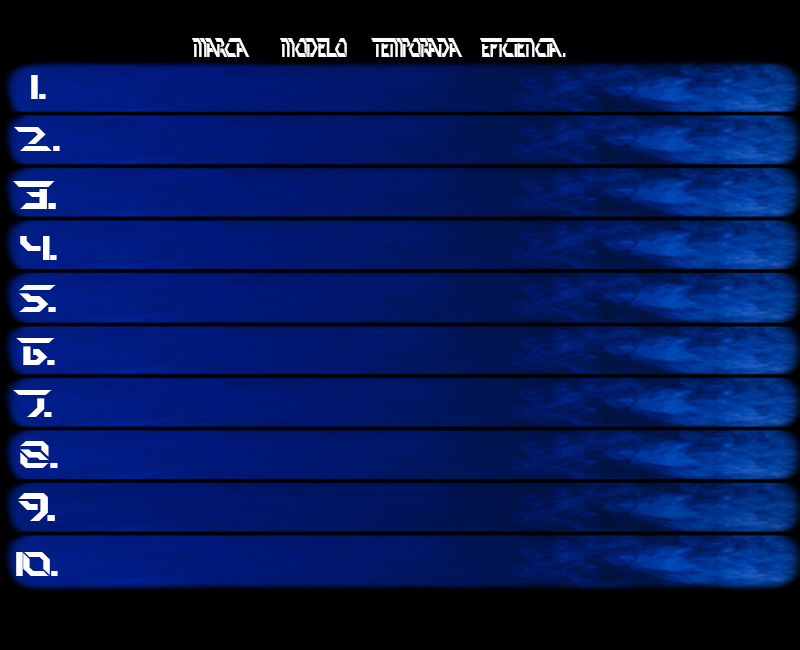
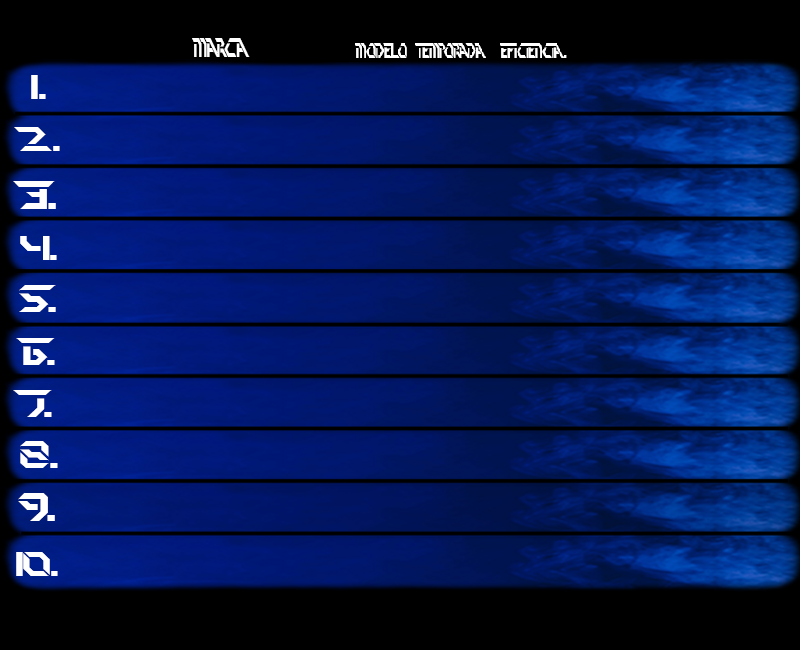
Edición fondos y deshabilitar botones

Changed region(s): [[0.3438, 0.0615, 0.7188, 0.0923]]

diff --git a/TelemetryLog.py b/TelemetryLog.py
@@ -240,6 +240,8 @@ def positions_table():
     Auto9 = loadImg(lista_autos[8][:8])
     Auto10 = loadImg(lista_autos[9][:8])
 
+    Edit_F = loadImg("Fondo.png")
+    
 #Configuración del Fondo
     Fondo_Pilotos = loadImg("Fondo Tabla Pilotos.png")
     C_positionsP.create_image(0,0,image=Fondo_Pilotos, anchor=NW,state=NORMAL)
@@ -276,7 +278,7 @@ def positions_table():
         y = 75
         for i in range(0,10):
             C_positionsA.create_text(180,y,font=("Arial", 10, "bold"), anchor=NW,fill="white", text=lista_autos[i][8:nombres(lista_autos[i])])
-            C_positionsA.create_text(280,y,font=("Arial", 10, "bold"), anchor=NW,fill="white", text=lista_autos[i][edad_a(lista_autos[i])[0]:edad_a(lista_autos[i])[1]])
+            C_positionsA.create_text(380,y,font=("Arial", 10, "bold"), anchor=NW,fill="white", text=lista_autos[i][edad_a(lista_autos[i])[0]:edad_a(lista_autos[i])[1]])
             C_positionsA.create_text(500,y,font=("Arial", 10, "bold"), anchor=NW,fill="white", text=lista_autos[i][edad_a(lista_autos[i])[1]:])
 
             y+=55
@@ -303,12 +305,14 @@ def positions_table():
 
         
     def edit_textP(y,Elegir,i):
+        positions.attributes('-disabled', True)
         edit=Toplevel()
         edit.title("Edit")
         edit.minsize(650,100)
         edit.resizable(width=NO, height=NO)
         C_edit=Canvas(edit, width=650,height=650, bg='light blue')
         C_edit.place(x=0,y=0)
+        C_edit.create_image(0,0,image=Edit_F, anchor=NW,state=NORMAL)
         Lista = 0
         arch = 0
         if Elegir == 0:
@@ -317,13 +321,21 @@ def positions_table():
         if Elegir == 1:    
             arch = open("Tabla de posiciones Pilotos.txt","r+")
             Lista = arch.readlines()
-            
+        if Elegir == 1:    
+            C_edit.create_text(5,70,font=("Arial", 12, "bold"), anchor=NW,tags=("pilot"),fill="white", text="Nombre:")
+            C_edit.create_text(200,80,font=("Arial", 9, "bold"), anchor=NW,tags=("pilot"),fill="white", text="Edad Nacionalidad Temporada")
+            C_edit.create_text(380,80,font=("Arial",9,"bold"),anchor=NW,tags=("pilot"),fill="white",text="Compet. RGP REP")
+        if Elegir == 0:
+            C_edit.create_text(5,70,font=("Arial", 12, "bold"), anchor=NW,tags=("pilot"),fill="white", text="Marca:")
+            C_edit.create_text(200,80,font=("Arial", 9, "bold"), anchor=NW,tags=("pilot"),fill="white", text="Modelo Temp.")
+            C_edit.create_text(380,80,font=("Arial",9,"bold"),anchor=NW,tags=("pilot"),fill="white",text="Eficiencia") 
+        
         E_name = Entry(C_edit,text="hola",width=25,font=("Agency FB",14))
-        E_name.place(x=0,y=50)
+        E_name.place(x=0,y=100)
         E_age = Entry(C_edit,text="texto",width=20,font=("Agency FB",14))
-        E_age.place(x=210,y=50)
+        E_age.place(x=210,y=100)
         E_rest = Entry(C_edit,width=15,font=("Agency FB",14))
-        E_rest.place(x=380,y=50)
+        E_rest.place(x=380,y=100)
         def mod_entry(y,i,n,Elegir):
             if Elegir == 1:
                 if y == 75:
@@ -373,6 +385,7 @@ def positions_table():
             E_age.delete(0, END)
             E_rest.delete(0,END)
             arch.close()
+            positions.attributes('-disabled', False)
             edit.destroy()
             positions.destroy()
             positions_table()
@@ -381,6 +394,7 @@ def positions_table():
             E_age.delete(0, END)
             E_rest.delete(0,END)
             arch.close()
+            positions.attributes('-disabled', False)
             edit.destroy()
         edit.protocol("WM_DELETE_WINDOW", disable_event)
         Btn_back = Button(edit, text="Confirmar cambio", command=lambda: cambiar(i,Lista,Elegir), bg="light blue", fg='black')
